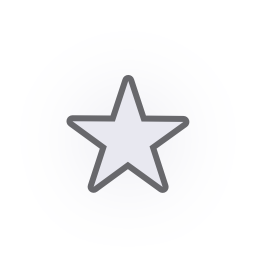
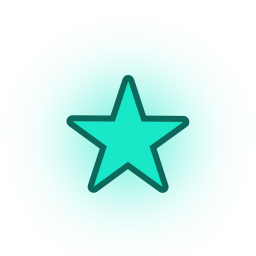
Secret takes a turquoise nothing else on either axis uses, instead of a second pale grey beside Common, and the goals tab gets the only grid this engine allows: one set of column widths every row obeys, so the action buttons of a screen share one edge at any window width

Changed region(s): [[0.1875, 0.2188, 0.8125, 0.8438]]

diff --git a/src/client/quests-ui.tsx b/src/client/quests-ui.tsx
@@ -9,6 +9,18 @@ import { DAILY_REWARDS } from '../shared/schemas'
 import { crate } from '../shared/loot-table'
 import { closeMenu } from './menu'
 
+/*
+  The grid, such as this engine allows one.
+
+  React-ECS is flexbox and nothing else: no CSS grid, no column template. So a grid here is
+  a discipline, one set of column widths that every row of the tab uses. What was there
+  instead was fixed pixels per row (510 + 119 + 187 in one, 629 + 187 in the next) inside a
+  container measured in percent: the totals happened to match, the paddings did not, and the
+  LOCKED button sat fifteen pixels left of the CLAIM above it (owner, 1 Sep, screenshot).
+  Percentages of the same parent cannot drift, at any window width.
+*/
+const COL = { texte: '60%', compteur: '14%', action: '26%' } as const
+
 export const questsView = {
   open: false,
   ids: [] as number[],
@@ -71,12 +83,12 @@ function QuestRow(props: { i: number }): ReactEcs.JSX.Element {
       }}
       uiBackground={{ color: Color4.create(1, 1, 1, 0.045) }}
     >
-      <UiEntity uiTransform={{ width: 510, height: 76, flexDirection: 'column', justifyContent: 'center' }}>
+      <UiEntity uiTransform={{ width: COL.texte, height: 76, flexDirection: 'column', justifyContent: 'center' }}>
         <Label value={q?.texte ?? ''} fontSize={TYPE.label}
           color={pris ? Color4.fromHexString('#6f7a6fff') : Color4.White()}
           uiTransform={{ width: '100%', height: 34 }} textAlign="middle-left" />
         <UiEntity
-          uiTransform={{ width: 493, height: 20, margin: { top: 3 }, borderRadius: RAD.bar }}
+          uiTransform={{ width: '96%', height: 20, margin: { top: 3 }, borderRadius: RAD.bar }}
           uiBackground={{ color: Color4.create(1, 1, 1, 0.12) }}
         >
           {/* The fill glides to its value and flashes white the moment it completes. */}
@@ -92,7 +104,8 @@ function QuestRow(props: { i: number }): ReactEcs.JSX.Element {
       </UiEntity>
       <Label value={`${fait}/${cible}`} fontSize={TYPE.label}
         color={Color4.fromHexString('#a8b2c0ff')}
-        uiTransform={{ width: 119, height: 76 }} textAlign="middle-center" />
+        uiTransform={{ width: COL.compteur, height: 76 }} textAlign="middle-center" />
+      <UiEntity uiTransform={{ width: COL.action, height: TAP.height, justifyContent: 'flex-end', alignItems: 'center' }}>
       {pris ? (
         <Label value="CLAIMED" fontSize={TYPE.caption} color={Color4.fromHexString('#6f7a6fff')}
           uiTransform={{ width: 187, height: TAP.height }} textAlign="middle-center" />
@@ -113,6 +126,7 @@ function QuestRow(props: { i: number }): ReactEcs.JSX.Element {
             uiTransform={{ width: 44, height: 40 }} textAlign="middle-left" />
         </UiEntity>
       )}
+      </UiEntity>
     </UiEntity>
   )
 }
@@ -141,17 +155,21 @@ export function QuestsContent(): ReactEcs.JSX.Element | null {
         uiTransform={{ width: '100%', height: 70, flexDirection: 'row', alignItems: 'center', margin: { top: 6 }, padding: { left: 16, right: 10 }, borderRadius: RAD.card }}
         uiBackground={{ color: Color4.create(1, 1, 1, 0.05) }}
       >
+        {/* Same three columns as a quest row: the text spans the first two, the action
+            sits in the third, so the buttons of every row in this tab share one edge. */}
         <Label value="ALL THREE  ·  bonus rare crate" fontSize={TYPE.label}
           color={allDone ? Color4.fromHexString('#ffd166ff') : Color4.fromHexString('#7d879bff')}
-          uiTransform={{ width: 629, height: 60 }} textAlign="middle-left" />
-        {questsView.pris[3] === 1 ? (
-          <Label value="CLAIMED" fontSize={TYPE.caption} color={Color4.fromHexString('#6f7a6fff')}
-            uiTransform={{ width: 187, height: TAP.height }} textAlign="middle-center" />
-        ) : (
-          <Btn label={allDone ? 'CLAIM' : 'LOCKED'} width={187} size={TYPE.caption}
-            skin={allDone ? 'success' : 'disabled'}
-            onClick={allDone ? () => claim(3) : undefined} />
-        )}
+          uiTransform={{ width: '74%', height: 60 }} textAlign="middle-left" />
+        <UiEntity uiTransform={{ width: COL.action, height: TAP.height, justifyContent: 'flex-end', alignItems: 'center' }}>
+          {questsView.pris[3] === 1 ? (
+            <Label value="CLAIMED" fontSize={TYPE.caption} color={Color4.fromHexString('#6f7a6fff')}
+              uiTransform={{ width: 187, height: TAP.height }} textAlign="middle-center" />
+          ) : (
+            <Btn label={allDone ? 'CLAIM' : 'LOCKED'} width={187} size={TYPE.caption}
+              skin={allDone ? 'success' : 'disabled'}
+              onClick={allDone ? () => claim(3) : undefined} />
+          )}
+        </UiEntity>
     </UiEntity>
 
     <Label value="LOGIN STREAK" fontSize={TYPE.label} color={Color4.fromHexString('#4dd2ffff')}

diff --git a/src/client/shop-ui.tsx b/src/client/shop-ui.tsx
@@ -100,10 +100,10 @@ const Rang = (props: {
     */}
     {/* The picture carries what a sentence used to: a player scanning a shop reads shapes. */}
     {props.icone !== undefined && (
-      <UiEntity uiTransform={{ width: 58, height: 58, margin: { right: 14 } }}
+      <UiEntity uiTransform={{ width: 52, height: 52, margin: { right: 12 } }}
         uiBackground={{ texture: { src: `assets/ui/${props.icone}` }, textureMode: 'stretch' }} />
     )}
-    <UiEntity uiTransform={{ width: '50%', height: RANG, flexDirection: 'column', justifyContent: 'center' }}>
+    <UiEntity uiTransform={{ width: '48%', height: RANG, flexDirection: 'column', justifyContent: 'center' }}>
       <Label value={props.titre} fontSize={TYPE.label} color={C.name}
         uiTransform={{ width: '100%', height: 34 }} textAlign="middle-left" textWrap="nowrap" />
       <Label value={props.detail} fontSize={TYPE.caption} color={C.dim}

diff --git a/src/shared/loot-table.ts b/src/shared/loot-table.ts
@@ -19,7 +19,10 @@ export const RARITIES = [
   { id: 3, name: 'Epic',      color: '#a855f7', size: 1.50, glow: 1.30, tours: 35 },
   { id: 4, name: 'Legendary', color: '#f5a524', size: 1.70, glow: 2.00, tours: 55 },
   { id: 5, name: 'Mythic',    color: '#ff4d6d', size: 1.95, glow: 2.80, tours: 80 },
-  { id: 6, name: 'Secret',    color: '#e8e8f0', size: 2.20, glow: 4.00, tours: 120 }
+  // Turquoise, and not another grey. Secret shipped at #e8e8f0 against Common's #9aa3ad:
+  // two pale greys at the ends of the same ladder, indistinguishable on a card (owner, 1 Sep).
+  // The rarest thing in the game now owns a hue nothing else on either axis uses.
+  { id: 6, name: 'Secret',    color: '#19e8c8', size: 2.20, glow: 4.00, tours: 120 }
 ] as const
 
 export function rarity(id: number) {

diff --git a/tools/ui/build-toy-icons.py b/tools/ui/build-toy-icons.py
@@ -25,7 +25,7 @@ N = 256
 # src/shared/loot-table.ts, RARITIES: colour and glow, in order.
 RARITIES = [
     ('#9aa3ad', 0.00), ('#4ec04e', 0.35), ('#3d8ef0', 0.80), ('#a855f7', 1.30),
-    ('#f5a524', 2.00), ('#ff4d6d', 2.80), ('#e8e8f0', 4.00),
+    ('#f5a524', 2.00), ('#ff4d6d', 2.80), ('#19e8c8', 4.00),
 ]
 
 
